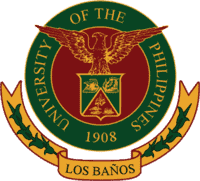
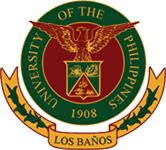
Optimize images

diff --git a/src/pages/404.js b/src/pages/404.js
@@ -1,0 +1,21 @@
+import React, { Component } from 'react';
+
+import 'assets/montserrat/_index.scss';
+import 'assets/palanquin/_index.scss';
+import 'assets/muli/_index.scss';
+
+import 'stylesheets/_index.scss';
+
+import { Page404 } from '../sections';
+
+class Site404 extends Component {
+  render() {
+    return (
+      <main>
+        <Page404 />
+      </main>
+    );
+  }
+}
+
+export default Site404;

diff --git a/src/pages/index.js b/src/pages/index.js
@@ -47,7 +47,10 @@ class Site extends Component {
   render() {
     return (
       <main>
-        <Helmet title={TITLE} meta={meta()} link={link} />
+        <Helmet title={TITLE} meta={meta()} link={link}>
+          {' '}
+          <html lang="en" />{' '}
+        </Helmet>
         <Header />
         <AboutMe />
         <Fallback />

diff --git a/src/sections/404.js b/src/sections/404.js
@@ -1,0 +1,10 @@
+import React from 'react';
+import { Heading } from '@common';
+
+export default () => (
+  <div id="second-section" className="section second-section page404">
+    <div className="content-container">
+      <Heading size="h1"> Oops! Page not found. </Heading>
+    </div>
+  </div>
+);

diff --git a/src/sections/index.js b/src/sections/index.js
@@ -3,3 +3,4 @@ export { default as AboutMe } from './second-section';
 export { default as Fallback } from './fallback-section';
 export { default as Experience } from './third-section';
 export { default as FourthSection } from './fourth-section';
+export { default as Page404 } from './404';

diff --git a/src/stylesheets/sections/second-section.scss b/src/stylesheets/sections/second-section.scss
@@ -170,3 +170,7 @@
     }
   }
 }
+
+.page404 {
+  overflow: hidden;
+}
